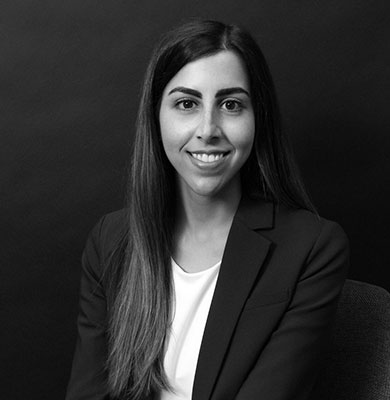
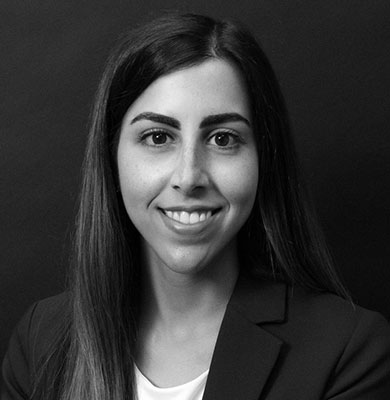
adding contact files and updating images for new hires.

diff --git a/our-lawyers.html b/our-lawyers.html
@@ -210,7 +210,7 @@
 					</a>
 					<div class="contact-details">
 						<p><a href="robertstellick.html"><h1>Robert Stellick</h1></a></p>
-						<p><a href="tel:1-416-351-2790">&nbsp;416 351 2790</a></p>
+						<p><a href="tel:1-416-596-9294">&nbsp;416 596 9294</a></p>
 						<p><a href="mailto:rstellick@AGBLLP.com">&nbsp;rstellick@AGBLLP.com</a></p>
 					</div>
 				</div>
@@ -223,8 +223,8 @@
 						</div>
 					</a>
 					<div class="contact-details">
-						<p><a href="juliawilkes.html"><h1>Michele Valentini</h1></a></p>
-						<p><a href="tel:1-416-351-2790">&nbsp;416 351 2790</a></p>
+						<p><a href="michelevalentini.html"><h1>Michele Valentini</h1></a></p>
+						<p><a href="tel:1-416-238-7274">&nbsp;416 238 7274</a></p>
 						<p><a href="mailto:mvalentini@AGBLLP.com">&nbsp;mvalentini@AGBLLP.com</a></p>
 					</div>
 				</div>

diff --git a/michelevalentini.html b/michelevalentini.html
@@ -54,10 +54,10 @@
 	    			</div>
 	    			<p>Contact:
 					<br />
-	    			<!-- <strong><span style="color:#969a9c;">T</span></strong> <a href="tel:1-416-351-2791">&nbsp;416 351 2791</a>
-    				<br /> --><strong><span style="color:#969a9c;">E</span></strong> <a href="mailto:mvalentini@AGBLLP.com">&nbsp;mvalentini@AGBLLP.com</a>
+	    			<strong><span style="color:#969a9c;">T</span></strong> <a href="tel:1-416-238-7274">&nbsp;416 238 7274</a>
+    				<br /><strong><span style="color:#969a9c;">E</span></strong> <a href="mailto:mvalentini@AGBLLP.com">&nbsp;mvalentini@AGBLLP.com</a>
 					<br />
-	    			<!-- <a href="files/Alex Fidler-Wener.vcf">Add to Contacts</a> --></p>
+	    			<a href="files/Michele Valentini.vcf">Add to Contacts</a></p>
 		    		<div class="green-section">
 
 		    			<p><strong>Education:</strong>

diff --git a/robertstellick.html b/robertstellick.html
@@ -54,10 +54,10 @@
 	    			</div>
 	    			<p>Contact:
 					<br />
-	    			<!-- <strong><span style="color:#969a9c;">T</span></strong> <a href="tel:1-416-351-2791">&nbsp;416 351 2791</a>
-    				<br /> --><strong><span style="color:#969a9c;">E</span></strong> <a href="mailto:rstellick@AGBLLP.com">&nbsp;rstellick@AGBLLP.com</a>
+	    			<strong><span style="color:#969a9c;">T</span></strong> <a href="tel:1-416-596-9294">&nbsp;416 596 9294</a>
+    				<br /><strong><span style="color:#969a9c;">E</span></strong> <a href="mailto:rstellick@AGBLLP.com">&nbsp;rstellick@AGBLLP.com</a>
 					<br />
-	    			<!-- <a href="files/Alex Fidler-Wener.vcf">Add to Contacts</a> --></p>
+	    			<a href="files/Robert Stellick.vcf">Add to Contacts</a></p>
 		    		<div class="green-section">
 
 		    			<p><strong>Education:</strong>
